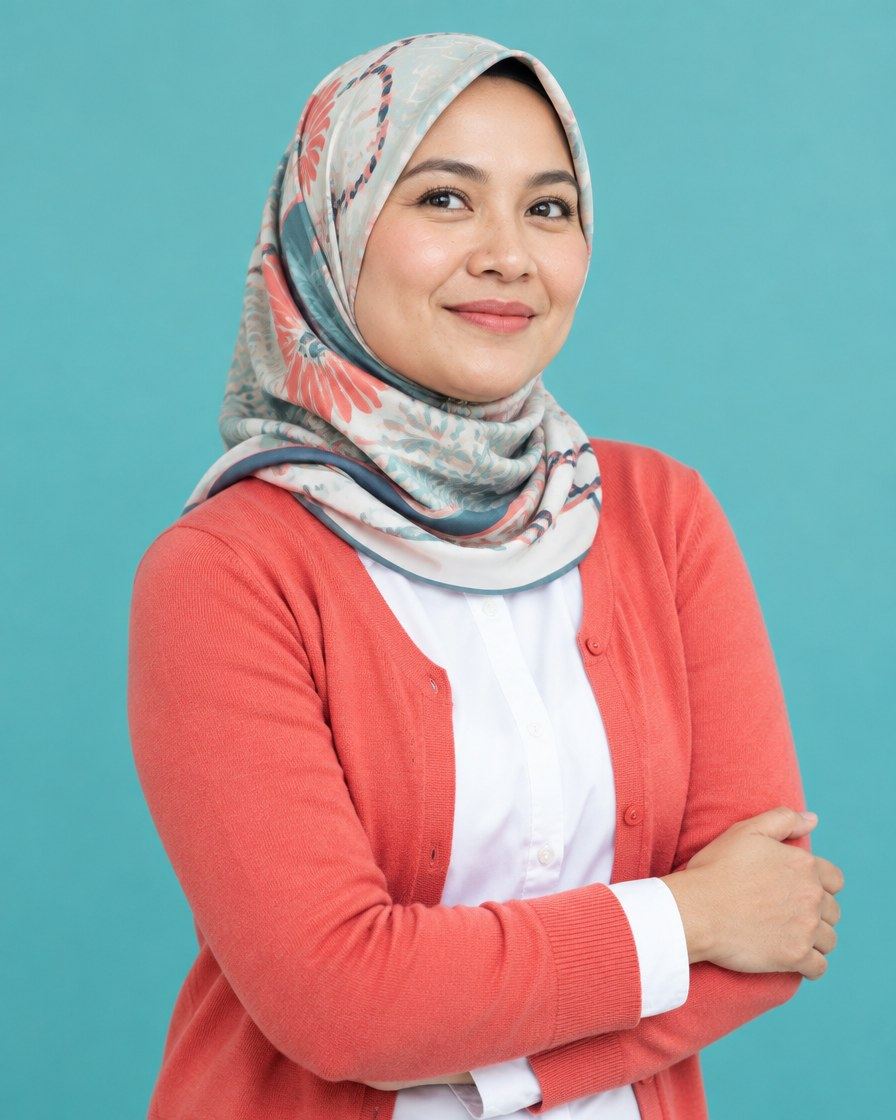
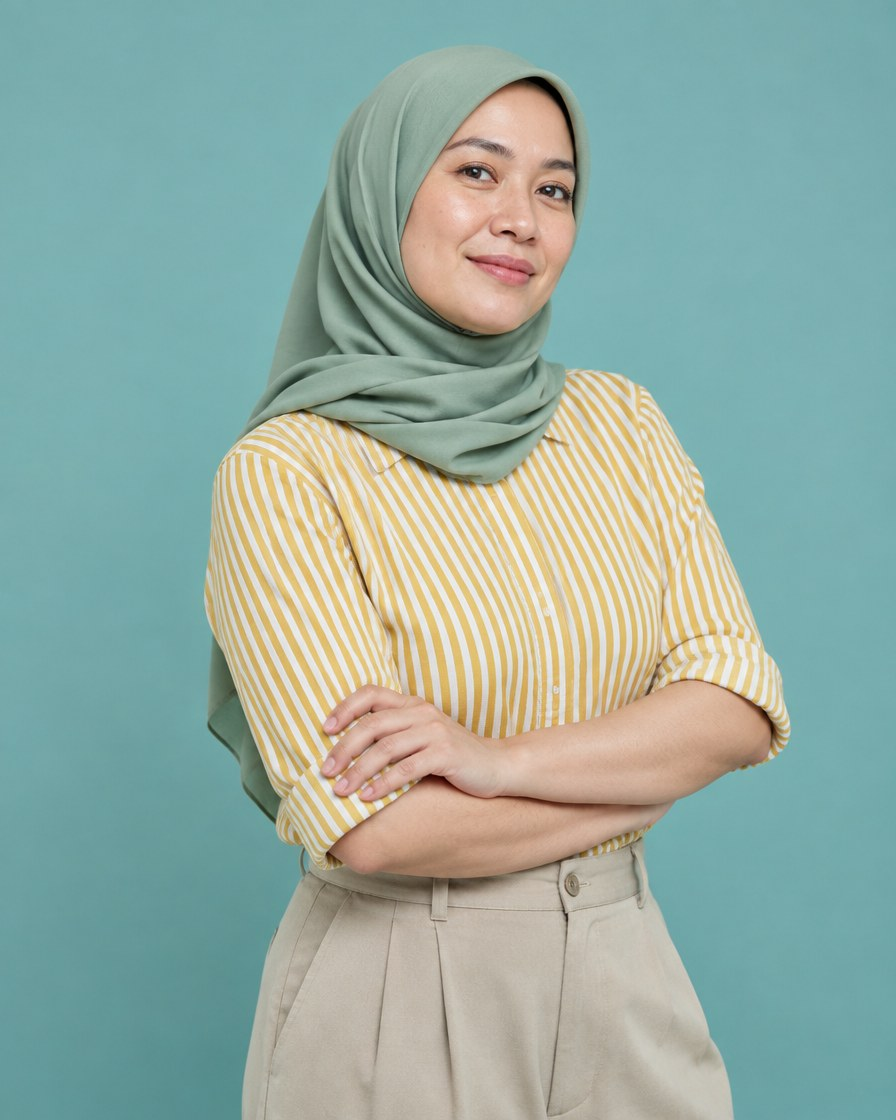
Every third person was wearing the same cobalt blue jumper (v2.15.0 → v2.16.0)
The same wardrobe line went into nearly every image prompt — "business casual in
saturated colours, cobalt blue, warm orange, crisp white, soft pink" — and the
model did exactly as told. Across 32 people-bearing photographs:

- cobalt blue in roughly 20 of 32, including 3 of the 6 studio portraits
- almost every garment a crew-neck knit or a plain button shirt
- essentially no pattern beyond the tudung prints and one batik
- no texture range: no denim, linen, corduroy, herringbone, tweed
- almost no layering
- everyone in a hero colour, when real offices are mostly neutral with accents

Reshot the 6 studio portraits and all 10 city shots — the two sets shown as
full-page galleries. Cobalt appears in none of them now. The library now carries
check, stripe, houndstooth, glen check, gingham, batik, songket and buffalo check;
linen, denim, corduroy, herringbone, cable knit, silk crepe and fleece; and real
layering — camel coats, blazers, overshirts, knit vests, denim jackets.

Written into PROMPTS.md as a rule with five axes to vary: colour, garment, pattern,
texture, layering. Plus the two that matter more than the list:

  - Most people should NOT be in a hero colour. Saturated brand colour is a
    punctuation mark in a photograph, not a uniform.
  - Put the repeats in the negative prompt. A model returns to the same safe
    choices unless told not to, quietly, one prompt at a time.

diff --git a/CHANGELOG.md b/CHANGELOG.md
@@ -4,6 +4,58 @@ Everything that's changed in the Hoffman design system, newest first. The system
 really lives in the Claude Design project
 (`d10f7f7f-3158-4438-9664-46d071bea8ff`) — this repo is the public copy of it.
 
+## 2026-09-17 — Every third person was wearing the same cobalt blue jumper (v2.15.0 → v2.16.0)
+
+A photo library is supposed to look like a lot of different days. This one looked
+like one day, because **the same wardrobe line went into nearly every prompt**:
+
+```
+business casual in saturated colours — cobalt blue, warm orange, crisp white, soft pink
+```
+
+The model did exactly as told. Counting the 32 people-bearing photographs:
+
+- **Cobalt blue in roughly 20 of 32** — including three of the six studio portraits
+- **Almost every garment a crew-neck knit or a plain button shirt**
+- **Essentially no pattern** in the entire library beyond the tudung prints and one batik
+- **No texture range at all** — no denim, linen, corduroy, herringbone, tweed
+- **Almost no layering** — barely a blazer, cardigan, gilet or scarf anywhere
+- And everyone in a *hero* colour, when real offices are mostly neutral with one or
+  two accents — which is also what the brand's own reference photography shows
+
+### Sixteen reshot, five axes named
+
+The six studio portraits and all ten city shots — the two sets shown as full-page
+galleries, and the worst offenders. **Cobalt appears in none of them now.**
+
+The library now carries **check, stripe, houndstooth, glen check, gingham, batik,
+songket and buffalo check**; **linen, denim, corduroy, herringbone, cable knit,
+silk crepe and fleece**; and actual layering — camel coats, unstructured blazers,
+overshirts, knit vests, denim jackets, a trench over an arm.
+
+**Written into `PROMPTS.md` as a rule**, because the reshoot only fixes today:
+
+| Axis | Reach for |
+|---|---|
+| **Colour** | The whole palette *and* the muted range — sand, stone, cream, charcoal, olive, rust, burgundy, camel, sage, plum |
+| **Garment** | Blazer, cardigan, overshirt, gilet, denim jacket, rollneck, polo, tee, shirt-dress, tunic, waistcoat |
+| **Pattern** | Stripe, check, gingham, houndstooth, glen check, batik, songket, floral |
+| **Texture** | Linen, denim, corduroy, herringbone, cable knit, silk crepe, fleece, leather |
+| **Layering** | A jacket over a shirt, a vest over a knit, a coat carried over an arm |
+
+Two things in that rule matter more than the list:
+
+**Most people should not be in a hero colour.** Saturated brand colour is a
+*punctuation mark* in a photograph — one or two garments in a group shot, never all
+of them.
+
+**Put the repeats in the negative prompt.** Once a colour or a garment has turned up
+a few times, ban it by name: `no cobalt blue, no crew-neck knit sweater, no plain
+button shirt`. A model returns to the same safe choices unless it is told not to,
+and it will do that quietly, one prompt at a time, until the whole set matches.
+
+Minor — sixteen reshoots and the rule that stops it recurring.
+
 ## 2026-09-17 — The imagery pages became a library you can actually shop from (v2.14.1 → v2.15.0)
 
 The deck told people what good imagery looks like and then showed them four

diff --git a/PROMPTS.md b/PROMPTS.md
@@ -151,6 +151,38 @@ Add `no suits` **only when business-casual genuinely suits the subject** — it 
 - *Black-and-white editorial portrait, CTO seated by a window, soft directional light, direct gaze, honest skin texture, no retouching gloss. 4:5.* (B&W is allowed for case-study portraits only.)
 - *Cinematic wide shot, engineering team reviewing work on a glass wall, dusk light through office windows, warm grade, candid, documentary, dark tones that hold white type. 16:9.* (For full-bleed heroes — ask for dark tones so the navy overlay + white type read.)
 
+### Wardrobe: vary it deliberately, or every shot looks like the same shot
+
+The fastest way to make a photo library look cheap is to write the same wardrobe
+line into every prompt. It happened here: **"business casual in saturated colours
+— cobalt blue, warm orange, crisp white, soft pink"** went into nearly every
+prompt, and the result was **cobalt blue in about 20 of 32 photographs**, almost
+every garment a crew-neck knit or a plain button shirt, and essentially no pattern
+in the entire set.
+
+**Vary along five axes, and name them explicitly in the prompt:**
+
+| Axis | Reach for |
+|---|---|
+| **Colour** | The whole brand palette *and* the muted range — sand, stone, cream, charcoal, olive, rust, burgundy, camel, sage, plum |
+| **Garment** | Blazer, cardigan, overshirt, gilet, denim jacket, rollneck, polo, tee, shirt-dress, tunic, waistcoat — not just knits and button shirts |
+| **Pattern** | Stripe, check, gingham, houndstooth, glen check, batik, songket, floral, buffalo check |
+| **Texture** | Linen, denim, corduroy, herringbone, cable knit, silk crepe, fleece, leather |
+| **Layering** | A jacket over a shirt, a vest over a knit, a coat carried over an arm, a scarf |
+
+**Most people should NOT be in a hero colour.** Real offices are largely neutral
+with one or two accents, and so is the brand's own reference photography. Saturated
+brand colour is a *punctuation mark* in a photograph — one or two garments in a
+group shot, not all of them.
+
+**Put the repeats in the negative prompt.** Once a colour or garment has appeared a
+few times, ban it by name: `no cobalt blue, no crew-neck knit sweater, no plain
+button shirt`. Models gravitate to the same safe choices unless told not to.
+
+**Cultural specificity counts as variety and is not optional** — batik as genuine
+Jakarta office wear, songket-inspired print in Kuala Lumpur, a patterned tudung.
+See the per-city notes below.
+
 ### The four official categories (VI deck, slides 25–28)
 
 The brand's own photography guide defines **four**, each with its own technical

diff --git a/README.md b/README.md
@@ -4,7 +4,7 @@
   <img src="./assets/readme/hero.svg" width="100%" alt="The Hoffman Agency Design System — brand tokens, 48 slide layouts, and the rules an LLM needs to build on-brand.">
 </p>
 
-**Version 2.15.0** · [full history in `CHANGELOG.md`](CHANGELOG.md) · latest: minor — the imagery section became a **library you can shop from**: seven new pages, each a named layout from `LAYOUTS.md` filled with real photographs, so a page is the layout demo *and* the inspiration gallery. **Illustrations 12 → 36**, photographs now **40** across five families including a new still-life set. Also: every AI-drawn Storyline squiggle removed — **never let a generative model draw a fixed brand asset**, it can only produce an interpretation. Deck is 66 slides. Versioned with [SemVer](https://semver.org); the canonical number lives in `package.json`.
+**Version 2.16.0** · [full history in `CHANGELOG.md`](CHANGELOG.md) · latest: minor — the same wardrobe line went into nearly every image prompt, so **cobalt blue turned up in ~20 of 32 photographs**, almost every garment was a crew-neck knit or plain shirt, and the library had **no pattern and no texture range at all**. Sixteen reshot across the portraits and all ten cities; `PROMPTS.md` now names **five axes to vary** (colour, garment, pattern, texture, layering) plus the two rules that matter: most people should *not* be in a hero colour, and put the repeats in the negative prompt. Versioned with [SemVer](https://semver.org); the canonical number lives in `package.json`.
 
 An integrated communications agency for tech brands. Hoffman helps companies turn complex business challenges into clear, compelling stories across earned, digital, social, content, creative and AI-enabled communications.
 
